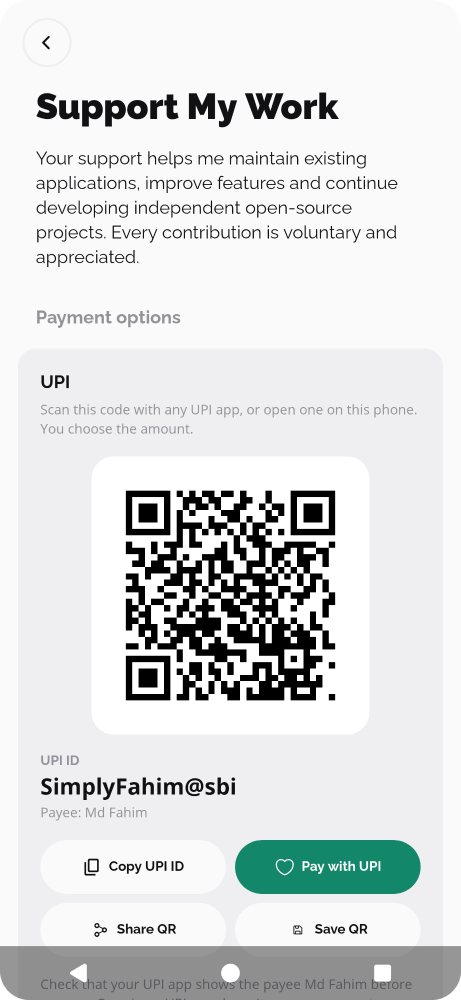
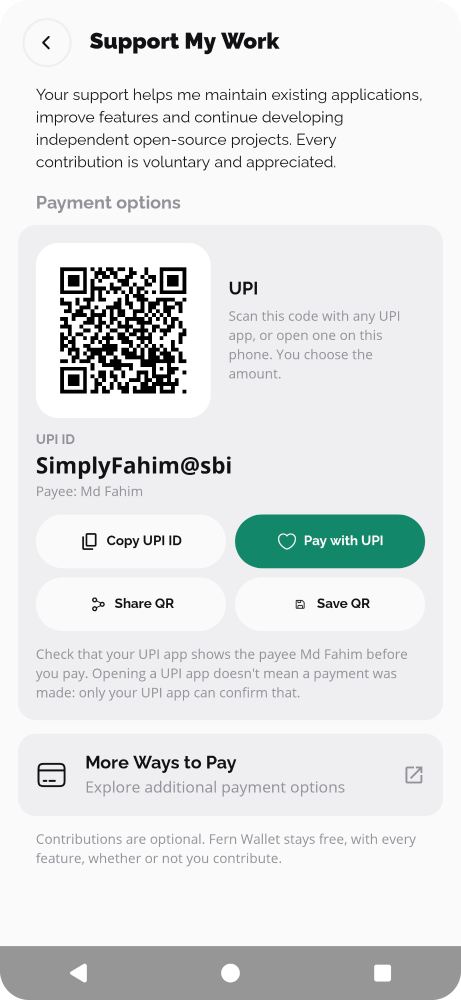
Fit Support My Work on one screen
The title moves beside the back button, the QR code shares a row with the
UPI heading and scan hint, and the intro and spacing are tighter. Every
element and action stays. Content height drops from about 1,080dp to 770dp
on a 411dp-wide phone; the screen still scrolls on small phones or with
large fonts.

diff --git a/feature/settings/src/main/java/com/ivy/settings/support/SupportScreen.kt b/feature/settings/src/main/java/com/ivy/settings/support/SupportScreen.kt
@@ -10,6 +10,7 @@ import androidx.compose.foundation.layout.height
 import androidx.compose.foundation.layout.navigationBarsPadding
 import androidx.compose.foundation.layout.padding
 import androidx.compose.foundation.layout.statusBarsPadding
+import androidx.compose.foundation.layout.width
 import androidx.compose.foundation.rememberScrollState
 import androidx.compose.foundation.verticalScroll
 import androidx.compose.material3.Text
@@ -104,28 +105,29 @@ private fun SupportUi(actions: SupportScreenActions) {
             .navigationBarsPadding()
             .verticalScroll(rememberScrollState())
     ) {
-        IvyToolbar(onBack = actions.onBack)
-
-        Text(
-            modifier = Modifier
-                .padding(horizontal = 32.dp)
-                .semantics { heading() },
-            text = stringResource(R.string.support_my_work),
-            style = UI.typo.h2.style(fontWeight = FontWeight.Black),
-        )
-
-        Spacer(Modifier.height(12.dp))
+        // The title sits beside the back button so the whole screen fits without scrolling on most phones.
+        IvyToolbar(onBack = actions.onBack) {
+            Spacer(Modifier.width(16.dp))
+            Text(
+                modifier = Modifier
+                    .weight(1f)
+                    .semantics { heading() },
+                text = stringResource(R.string.support_my_work),
+                style = UI.typo.b1.style(fontWeight = FontWeight.Black),
+            )
+            Spacer(Modifier.width(16.dp))
+        }
 
         Text(
             modifier = Modifier.padding(horizontal = 32.dp),
             text = stringResource(R.string.support_intro),
             style = UI.typo.b2.style(color = UI.colors.pureInverse, fontWeight = FontWeight.Normal)
-                .copy(lineHeight = 22.sp),
+                .copy(fontSize = 14.sp, lineHeight = 20.sp),
         )
 
         PaymentOptionsSection(actions = actions)
 
-        Spacer(Modifier.height(24.dp))
+        Spacer(Modifier.height(12.dp))
 
         Text(
             modifier = Modifier.padding(horizontal = 32.dp),
@@ -133,7 +135,7 @@ private fun SupportUi(actions: SupportScreenActions) {
             style = UI.typo.nC.style(color = UI.colors.gray, fontWeight = FontWeight.Normal),
         )
 
-        Spacer(Modifier.height(48.dp))
+        Spacer(Modifier.height(16.dp))
     }
 }
 

diff --git a/feature/settings/src/main/java/com/ivy/settings/support/UpiCard.kt b/feature/settings/src/main/java/com/ivy/settings/support/UpiCard.kt
@@ -56,7 +56,9 @@ import com.ivy.wallet.ui.theme.White
 import kotlinx.coroutines.delay
 
 private const val CopiedFeedbackDurationMs = 2_000L
-private val QrDisplaySize = 232.dp
+
+// About 13 px per QR module on a typical phone: still easy to scan from another phone.
+private val QrDisplaySize = 140.dp
 
 @Composable
 internal fun UpiCard(actions: SupportScreenActions) {
@@ -66,27 +68,29 @@ internal fun UpiCard(actions: SupportScreenActions) {
             .fillMaxWidth()
             .clip(UI.shapes.r4)
             .background(UI.colors.medium, UI.shapes.r4)
-            .padding(horizontal = 20.dp, vertical = 20.dp),
+            .padding(16.dp),
     ) {
-        UpiCardHeader()
-        Spacer(Modifier.height(16.dp))
-
-        UpiPayeePaymentQrCodeImage(Modifier.align(Alignment.CenterHorizontally))
-        Spacer(Modifier.height(16.dp))
+        // The QR code shares a row with the heading and scan hint, so the card needs no full-width QR block.
+        Row(verticalAlignment = Alignment.CenterVertically) {
+            UpiPayeePaymentQrCodeImage()
+            Spacer(Modifier.width(16.dp))
+            UpiCardHeader(Modifier.weight(1f))
+        }
+        Spacer(Modifier.height(12.dp))
 
         UpiIdentityDetails()
-        Spacer(Modifier.height(16.dp))
+        Spacer(Modifier.height(12.dp))
 
         UpiActionsButtons(actions)
 
-        Spacer(Modifier.height(16.dp))
+        Spacer(Modifier.height(12.dp))
         UpiVerificationHint()
     }
 }
 
 @Composable
-private fun UpiCardHeader() {
-    Column {
+private fun UpiCardHeader(modifier: Modifier = Modifier) {
+    Column(modifier) {
         Text(
             modifier = Modifier.semantics { heading() },
             text = stringResource(R.string.support_upi),

diff --git a/feature/settings/src/main/java/com/ivy/settings/support/SupportScreenSections.kt b/feature/settings/src/main/java/com/ivy/settings/support/SupportScreenSections.kt
@@ -91,8 +91,8 @@ internal fun SupportDestinationLinkRow(
 @Composable
 internal fun PaymentOptionsSection(actions: SupportScreenActions) {
     Column {
-        SettingsSectionDivider(text = stringResource(R.string.support_payment_options))
-        Spacer(Modifier.height(16.dp))
+        SettingsSectionDivider(text = stringResource(R.string.support_payment_options), topSpacing = 16.dp)
+        Spacer(Modifier.height(8.dp))
 
         UpiCard(actions)
 

diff --git a/feature/settings/src/main/java/com/ivy/settings/SettingsScreen.kt b/feature/settings/src/main/java/com/ivy/settings/SettingsScreen.kt
@@ -1072,10 +1072,11 @@ private fun CurrencyButton(
 @Composable
 internal fun SettingsSectionDivider(
     text: String,
-    color: Color = Gray
+    color: Color = Gray,
+    topSpacing: Dp = 32.dp,
 ) {
     Column {
-        Spacer(Modifier.height(32.dp))
+        Spacer(Modifier.height(topSpacing))
 
         Text(
             modifier = Modifier.padding(start = 32.dp),

diff --git a/CHANGELOG.md b/CHANGELOG.md
@@ -16,6 +16,9 @@ First Fern Wallet changes on top of Ivy Wallet `2025.07.17 (206)`.
   and adds **More Ways to Pay** (`simplyfahim.pages.dev/pay-options`). Ko-fi and the personal
   Instagram, email and GitHub links are gone from the app; the contact page lists them.
 - The UPI buttons wrap their labels at large font sizes instead of cutting them off.
+- **Support My Work** fits on one screen on most phones: the title sits beside the back button,
+  the QR code shares a row with the UPI heading, and spacing is tighter. Nothing was removed, and
+  the screen still scrolls on small phones or with large fonts.
 
 ### Fixes, connected motion, account logos and backgrounds
 Root causes are in `PLAN.md`.
